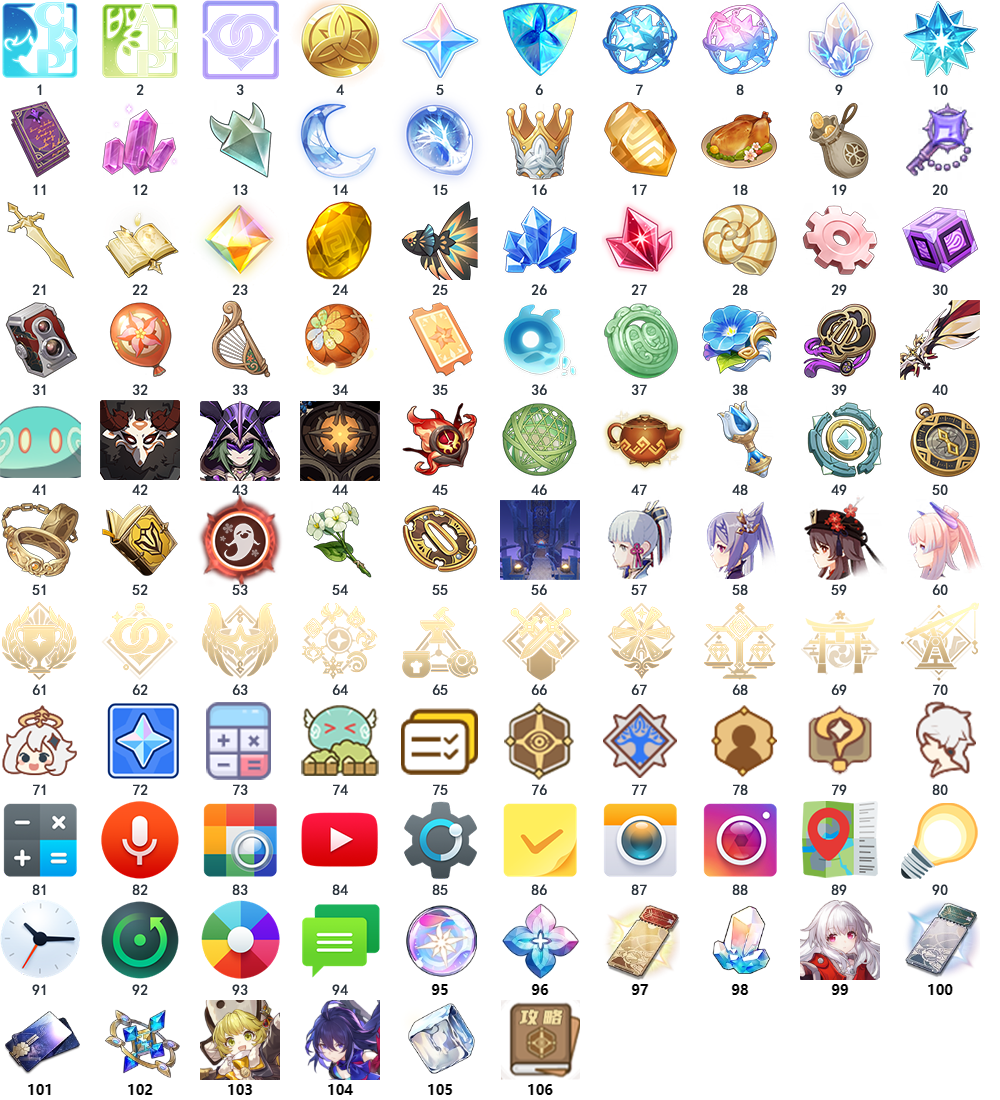
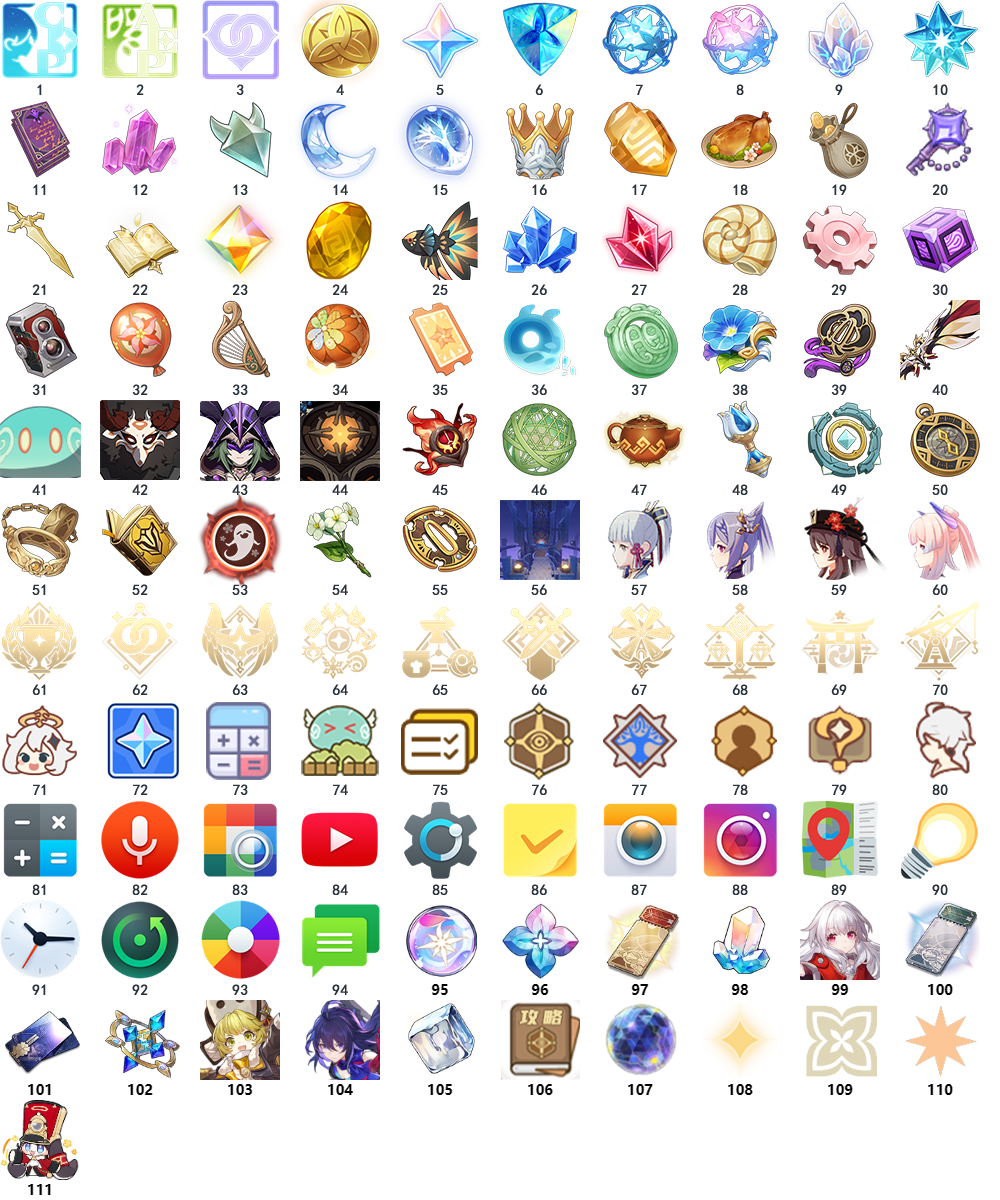
update：优化帮助图标，深渊功能暂未完成

diff --git a/config/system/help_system.js b/config/system/help_system.js
@@ -45,9 +45,13 @@ export const helpList = [
       title: '*体力',
       desc: '体力和委托信息'
     }, {
-      icon: 56,
+      icon: 107,
       title: '*(上期)宇宙(uid)',
       desc: '模拟宇宙信息(可带uid查询)'
+    }, {
+      icon: 110,
+      title: '*深渊',
+      desc: '忘却之庭信息'
     }, {
       icon: 91,
       title: '*在线时长',
@@ -97,13 +101,13 @@ export const helpList = [
       title: '*xx参考面板(帮助)',
       desc: '星铁角色参考面板(帮助)'
     }, {
-      icon: 61,
+      icon: 111,
       title: '*强度榜',
       desc: '星铁角色强度榜(仅供参考)'
     }, {
       icon: 99,
       title: '*收益曲线',
-      desc: '星铁角色收益曲线(仅供参考)'
+      desc: '星铁各属性收益曲线(仅供参考)'
     }, {
       icon: 106,
       title: '*攻略',

diff --git a/apps/help.js b/apps/help.js
@@ -14,7 +14,7 @@ export class help extends plugin {
 			priority: 100,
 			rule: [
 				{
-					reg: `^${rulePrefix}帮助`,
+					reg: `^${rulePrefix}帮助$`,
 					fnc: 'help'
 				},
 			]

diff --git a/README.md b/README.md
@@ -108,6 +108,18 @@ git clone --depth=1 https://github.com/hewang1an/StarRail-plugin.git ./plugins/S
 ### *跃迁分析
 默认总览,可接角色/光锥/常驻
 
+### *xx参考面板(帮助)
+星铁角色参考面板(帮助)
+
+### *强度榜
+星铁角色强度榜(仅供参考)
+
+### *收益曲线
+星铁各属性收益曲线(仅供参考)
+
+# *攻略
+星铁全角色攻略
+
 抽卡分析默认会缓存结果，后面加上刷新才会获取新的抽卡记录
 
 绝大部分功能需要绑定cookie进行使用，推荐使用[逍遥插件](https://gitee.com/Ctrlcvs/xiaoyao-cvs-plugin)发送#扫码登录进行cookie的绑定，否则可能会报错
